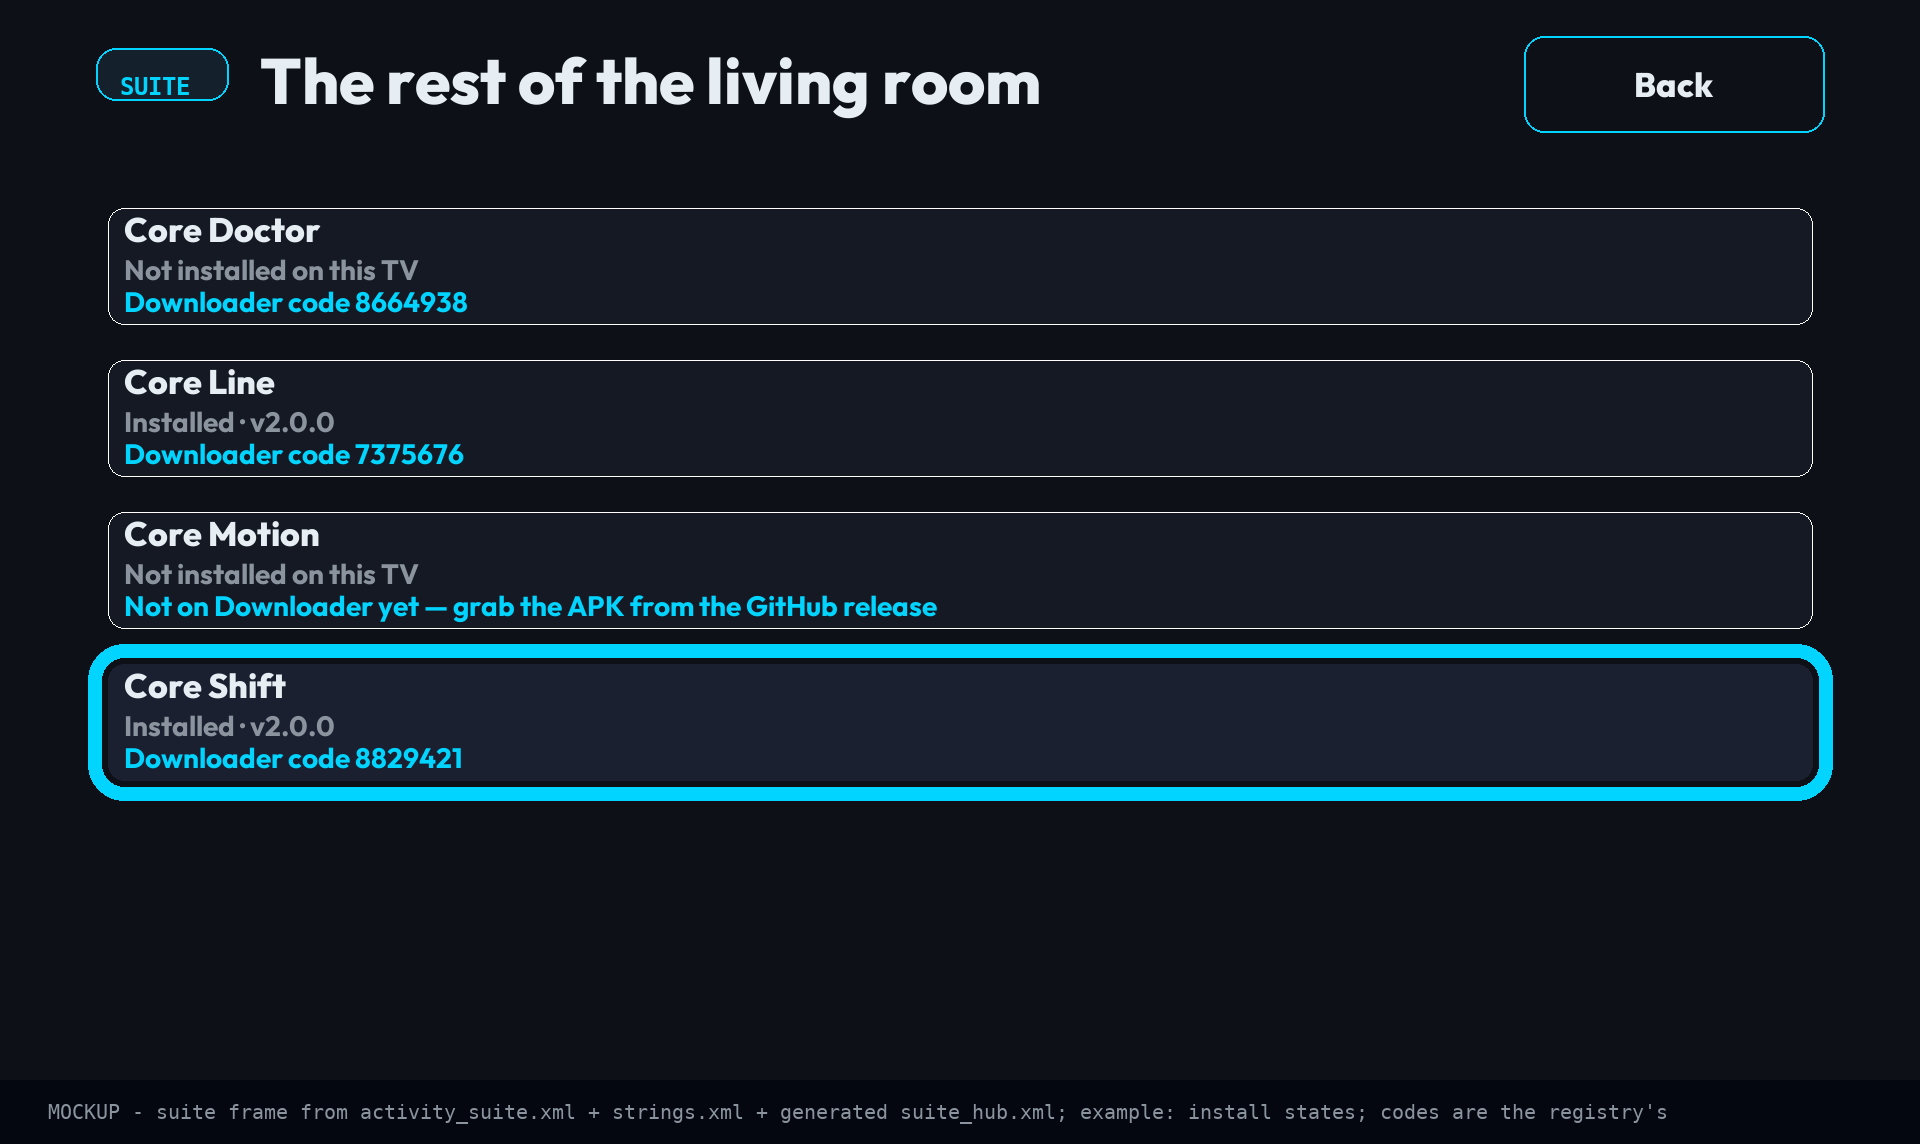
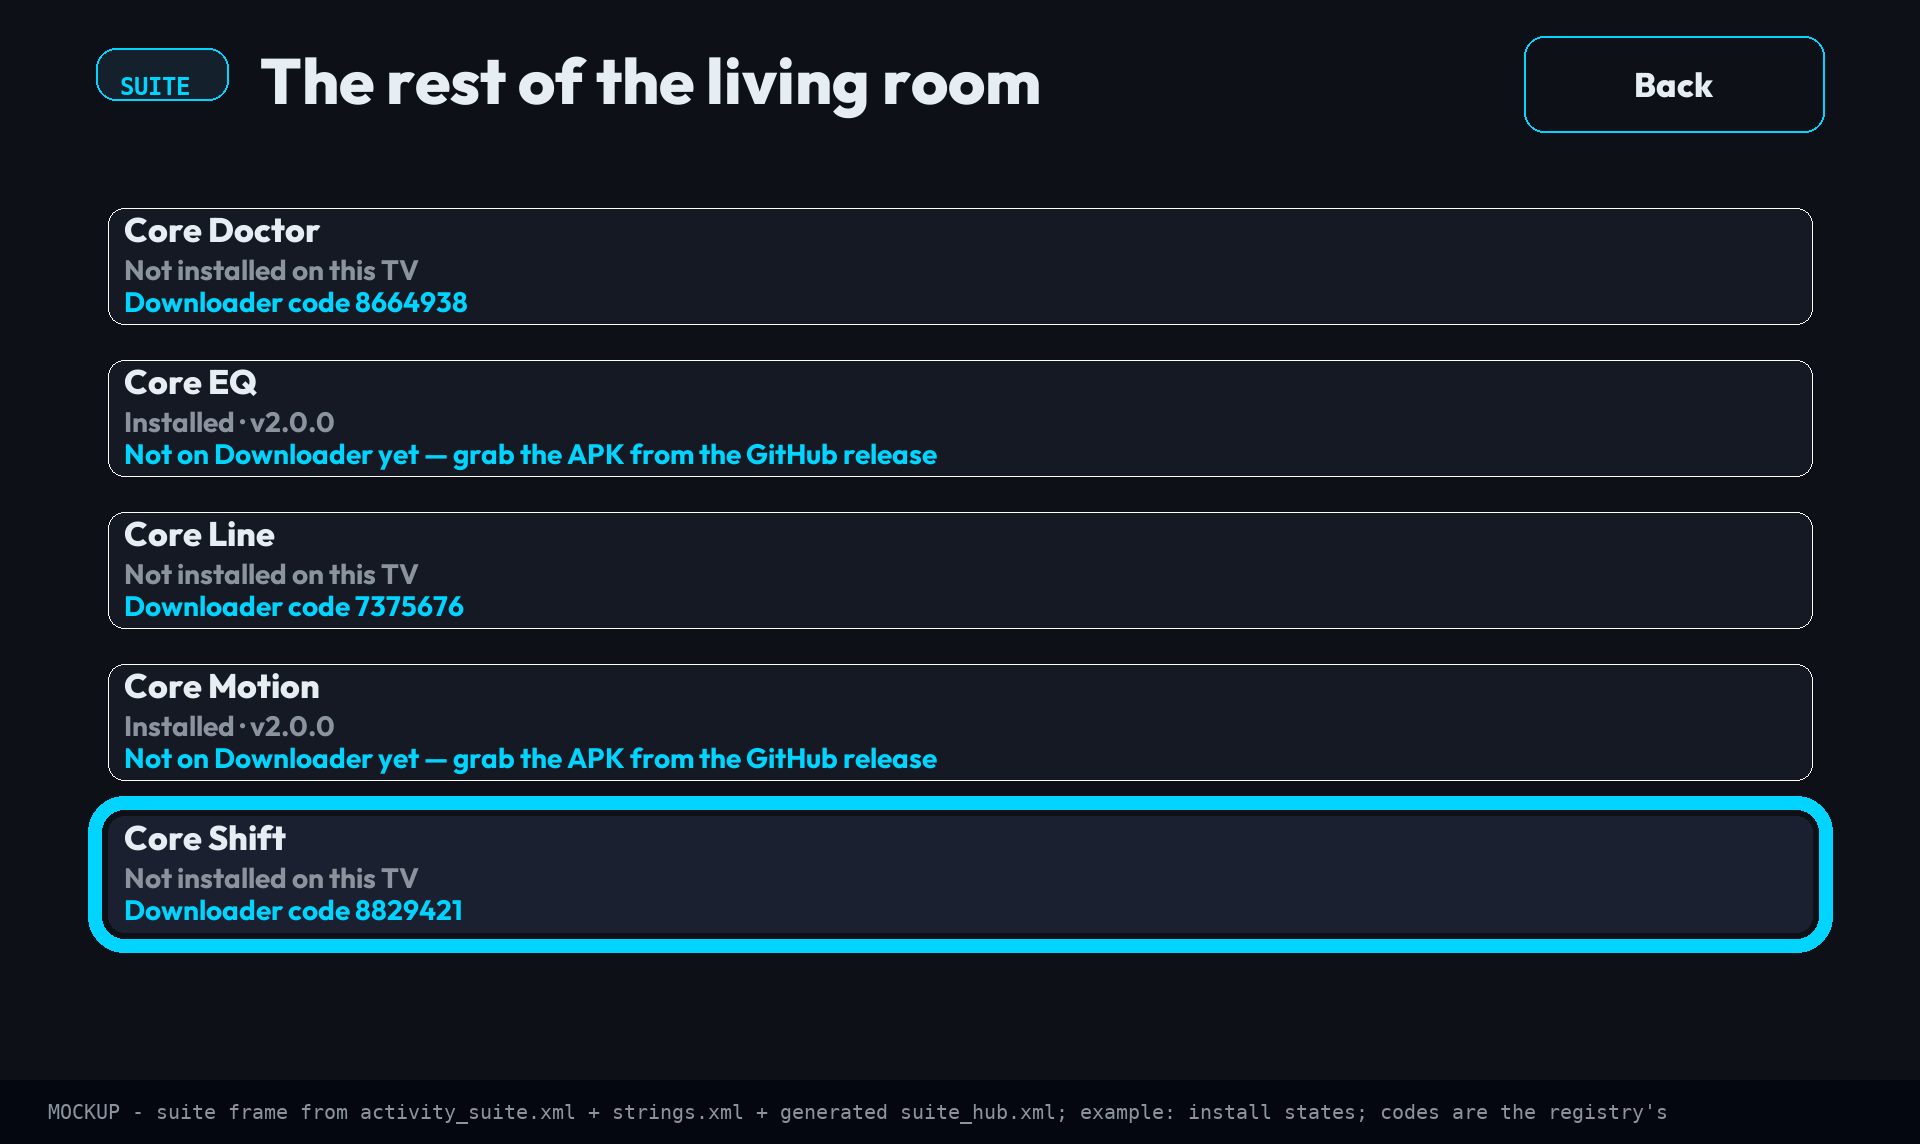
Core EQ: register in the suite, own changelog, safe release lanes, first test
- suite.json declares Core EQ (tv.corebuilds.eq, tag prefix coreeq-v,
  floating tag coreeq, Downloader [USER TO SUPPLY], metadata null). #183's
  check_release_tag_wiring rejected the coreeq-v* trigger on current main
  because no app declared the prefix. check_suite_truth's app order, the
  README stamp and a Core EQ section, AGENTS.md, PUBLISHING.md and the PR
  template follow; the icon pack's generated suite hub and its <queries>
  gain tv.corebuilds.eq, and the suite frame is regenerated.
- Core EQ's 11 changelog entries move from the root CHANGELOG.md, whose
  [Unreleased] prepare_release.py turns into the icon pack's in-app What's
  New, to coreeq/CHANGELOG.md. The icon pack's [Unreleased] now records only
  the hub change it actually ships.
- core-eq-apk.yml: PRs build a debug artifact and publish nothing; the
  coreeq-test prerelease updates only from pushes to main (no more publishing
  from PRs or arena/* branches); coreeq-v* tags on main build a signed,
  apksigner-verified coreeq-release.apk and publish the versioned and floating
  coreeq releases, mirroring Core Doctor. The release build type signs from
  the same KEYSTORE_* environment as the other apps.
- First unit test: CorrectionLimits (40 Hz-8 kHz, +6/-12 dB) with
  CorrectionLimitsTest, and tests/test_core_eq_parity.py holding those numbers
  equal to tools/core_eq_dsp.py, wired into suite-ci. CI now runs
  :app:testDebugUnitTest.
[…]

Changed region(s): [[0.0312, 0.5201, 0.9688, 0.8566], [0.0938, 0.3059, 0.5, 0.4283], [0.0938, 0.4589, 0.1875, 0.4895]]

diff --git a/coreeq/app/src/main/kotlin/tv/corebuilds/eq/CorrectionLimits.kt b/coreeq/app/src/main/kotlin/tv/corebuilds/eq/CorrectionLimits.kt
@@ -1,0 +1,33 @@
+package tv.corebuilds.eq
+
+/**
+ * The hard limits every correction Core EQ hands back must respect.
+ *
+ * These mirror `tools/core_eq_dsp.py` (F_MIN, F_MAX, MAX_BOOST_DB, MAX_CUT_DB),
+ * the reference the Kotlin measurement chain has to agree with; the numbers are
+ * held to it by `tests/test_core_eq_parity.py`, so they cannot drift apart.
+ *
+ * - A TV remote microphone cannot be trusted below 40 Hz or above 8 kHz
+ *   (16 kHz ADPCM caps it at an 8 kHz Nyquist), so nothing outside that band is
+ *   ever corrected: its gain is exactly zero, not merely small.
+ * - Boosts stop at +6 dB and cuts at -12 dB: a null is interference and cannot
+ *   be filled, and a large boost only buys distortion.
+ */
+object CorrectionLimits {
+    const val MIN_HZ = 40.0
+    const val MAX_HZ = 8000.0
+    const val MAX_BOOST_DB = 6.0
+    const val MAX_CUT_DB = 12.0
+
+    /** True when [hz] lies in the band Core EQ is allowed to correct. */
+    fun isCorrectable(hz: Double): Boolean = hz in MIN_HZ..MAX_HZ
+
+    /**
+     * The gain Core EQ may apply at [hz] for a requested [gainDb]: clamped to
+     * +[MAX_BOOST_DB] / -[MAX_CUT_DB], and exactly 0 outside the trusted band.
+     */
+    fun limit(hz: Double, gainDb: Double): Double {
+        if (!isCorrectable(hz) || gainDb.isNaN()) return 0.0
+        return gainDb.coerceIn(-MAX_CUT_DB, MAX_BOOST_DB)
+    }
+}

diff --git a/coreeq/app/src/test/kotlin/tv/corebuilds/eq/CorrectionLimitsTest.kt b/coreeq/app/src/test/kotlin/tv/corebuilds/eq/CorrectionLimitsTest.kt
@@ -1,0 +1,35 @@
+package tv.corebuilds.eq
+
+import org.junit.Assert.assertEquals
+import org.junit.Assert.assertFalse
+import org.junit.Assert.assertTrue
+import org.junit.Test
+
+class CorrectionLimitsTest {
+
+    @Test
+    fun bandEdgesAreInclusive() {
+        assertTrue(CorrectionLimits.isCorrectable(40.0))
+        assertTrue(CorrectionLimits.isCorrectable(8000.0))
+        assertFalse(CorrectionLimits.isCorrectable(39.9))
+        assertFalse(CorrectionLimits.isCorrectable(8000.1))
+    }
+
+    @Test
+    fun outsideTheBandTheGainIsExactlyZero() {
+        assertEquals(0.0, CorrectionLimits.limit(20.0, 5.0), 0.0)
+        assertEquals(0.0, CorrectionLimits.limit(12000.0, -9.0), 0.0)
+    }
+
+    @Test
+    fun boostsAndCutsAreClamped() {
+        assertEquals(6.0, CorrectionLimits.limit(100.0, 15.0), 0.0)
+        assertEquals(-12.0, CorrectionLimits.limit(100.0, -30.0), 0.0)
+        assertEquals(-3.5, CorrectionLimits.limit(1000.0, -3.5), 0.0)
+    }
+
+    @Test
+    fun notANumberNeverBecomesAGain() {
+        assertEquals(0.0, CorrectionLimits.limit(1000.0, Double.NaN), 0.0)
+    }
+}

diff --git a/tests/test_core_eq_parity.py b/tests/test_core_eq_parity.py
@@ -1,0 +1,37 @@
+#!/usr/bin/env python3
+"""Core EQ's Kotlin correction limits must equal the Python DSP reference.
+
+`tools/core_eq_dsp.py` is the reference the Android measurement chain has to
+agree with (docs/CORE_EQ_PLAN.md, M2). This holds the first shared numbers
+together today, without an Android SDK: the trusted band and the boost/cut caps
+in `coreeq/.../CorrectionLimits.kt` are read from source and compared.
+"""
+from __future__ import annotations
+
+import re
+import sys
+import unittest
+from pathlib import Path
+
+ROOT = Path(__file__).resolve().parents[1]
+sys.path.insert(0, str(ROOT / "tools"))
+
+import core_eq_dsp as dsp  # noqa: E402
+
+KOTLIN = ROOT / "coreeq/app/src/main/kotlin/tv/corebuilds/eq/CorrectionLimits.kt"
+PAIRS = {"MIN_HZ": "F_MIN", "MAX_HZ": "F_MAX",
+         "MAX_BOOST_DB": "MAX_BOOST_DB", "MAX_CUT_DB": "MAX_CUT_DB"}
+
+
+class CorrectionLimitParity(unittest.TestCase):
+    def test_kotlin_limits_match_the_reference(self):
+        src = KOTLIN.read_text(encoding="utf-8")
+        for kotlin_name, py_name in PAIRS.items():
+            with self.subTest(constant=kotlin_name):
+                m = re.search(rf"const val {kotlin_name} = ([0-9.]+)", src)
+                self.assertIsNotNone(m, f"{kotlin_name} missing from {KOTLIN.name}")
+                self.assertEqual(float(m.group(1)), float(getattr(dsp, py_name)))
+
+
+if __name__ == "__main__":
+    unittest.main()

diff --git a/tools/build_readme_badge.py b/tools/build_readme_badge.py
@@ -13,6 +13,7 @@ WHAT = {
     "shift": "Android TV screensaver + motion wallpaper browser",
     "motion": "Projectivy wallpaper-provider plugin for Core Motion loops",
     "doctor": "Local-only streaming and suite diagnostics (phone)",
+    "eq": "Room EQ from a test sweep and the TV remote mic (in development)",
 }
 ANCHOR = {
     "iconpack": "core-builds-icon-pack",
@@ -20,6 +21,7 @@ ANCHOR = {
     "shift": "core-shift",
     "motion": "core-motion",
     "doctor": "core-doctor",
+    "eq": "core-eq",
 }
 
 def block(suite: dict) -> str:
@@ -29,7 +31,7 @@ def block(suite: dict) -> str:
         "> |---|---:|---|---|---|",
     ]
     wallpapers = json.loads((ROOT / "Wallpapers/manifest.json").read_text())["count"]
-    for key in ["iconpack", "line", "shift", "motion", "doctor"]:
+    for key in ["iconpack", "line", "shift", "motion", "doctor", "eq"]:
         app = suite["apps"][key]
         releases = "../../releases"
         downloader = app["downloader"]

diff --git a/tools/check_suite_truth.py b/tools/check_suite_truth.py
@@ -44,7 +44,7 @@ def readme_stamp(suite: dict) -> str:
 def check_suite_json() -> None:
     suite = json.loads(read("suite.json"))
     apps = suite.get("apps", {})
-    expected = ["iconpack", "line", "shift", "motion", "doctor"]
+    expected = ["iconpack", "line", "shift", "motion", "doctor", "eq"]
     if list(apps.keys()) != expected:
         fail(f"suite.json apps must be in order {expected}")
     for key, app in apps.items():

diff --git a/coreeq/CHANGELOG.md b/coreeq/CHANGELOG.md
@@ -1,0 +1,26 @@
+# Core EQ changelog
+
+Core EQ (`tv.corebuilds.eq`) keeps its own changelog. The repository-root
+`CHANGELOG.md` belongs to the icon pack: `tools/prepare_release.py` turns its
+`[Unreleased]` section into the icon pack's in-app What's New, so Core EQ notes
+must never land there. Releases are `coreeq-v<version>` tags (see
+`PUBLISHING.md`).
+
+## [Unreleased] — 0.1.0 (M1)
+
+### Added
+
+- **Core EQ — a room equaliser built from pink noise and the TV remote mic.** `docs/research/core-eq-measurement-and-capability-2026-09.md` settles the two questions the idea lives or dies on: the controller microphone *is* supported on Android TV, but an uncalibrated remote capsule cannot be trusted below 40 Hz or above 8 kHz; and Android has no global equaliser API, so applying the correction is a capability to probe and state, not a promise to make.
+- **Core EQ plan and design frames.** `docs/CORE_EQ_PLAN.md` lays out the four screens, the capability ladder and the milestones, and `docs/core-eq-*.png` show them in the suite's own night chrome — Outfit and DejaVu Sans Mono, the `cb_*` tokens, the 3dp ring focus treatment, all read live from `app/src/main/res/values` rather than hand-drawn.
+- **`tools/core_eq_dsp.py` is the measurement chain, written before the Android.** Pink-noise and exponential-sine-sweep synthesis, Welch PSD to 1/3-octave bands anchored at 1 kHz, Flat / B&K / Harman / House targets, and a correction capped at +6/−12 dB with a 6 dB/octave slope limit across 40 Hz–8 kHz — plus the peaking-filter fit, the millibel collapse onto the device's own bands, and the three export formats with a preamp that rounds toward more negative.
+- **`tests/test_core_eq_dsp.py` pins that chain where it cannot drift.** Pink noise is proved to be −3 dB/octave and deterministic, `cut_only` is proved never to boost, the slope limiter is proved to cap a 15 dB null rather than echo it, fitting is proved deterministic, and the exported preamp is proved unable to under-compensate the largest boost. 41 tests.
+- **`tools/build_core_eq_mockups.py` renders the frames from their sources.** It reuses the icon pack's token loaders and font pins, feeds the graphs real DSP output rather than a hand-shaped curve, and refuses to draw any screen whose content passes the 540dp panel — the frame-level twin of `tests/test_tv_layout_fit.py`.
+- **`.github/workflows/suite-ci.yml` runs the new gates.** The DSP self-test, the pytest chain and the frame check are wired into the no-path-filter job, so `tests/test_ci_coverage.py` sees them on every push.
+- **Second research pass: precedents, the apply path, and the audio path.** `docs/research/core-eq-precedents-poweramp-and-audio-path-2026-09-27.md` finds a shipping mainstream precedent in Sonos Trueplay — and the reason it refuses Android microphones, which is the objection Core EQ has to answer — then settles three things the first pass missed: Poweramp Equalizer is the apply target rather than a rival and already imports the exact AutoEQ `.txt` Core EQ exports; the audio output path decides whether an app-level equaliser can reach the sound at all, so it must be probed before anyone measures a room; and every target curve so far has been a music target, when the dominant TV problem is dialogue intelligibility.
+- **Third research pass: the correction science.** `docs/research/core-eq-correction-science-2026-09-27.md` settles what a measured response is *allowed* to be corrected toward. Correction has a computable ceiling — the room stops being a set of discrete resonances above its Schroeder frequency, `2000·sqrt(RT60/V)`, and the industry inverts only below about 300–500 Hz. A null is destructive interference and cannot be filled at any price, so the corrector must cut peaks and leave cancellations alone, while cutting a modal peak genuinely does kill its ringing because low-frequency room modes are minimum phase. It also audits the reference DSP: its `harman` target is speaker-family rather than headphone-family, which is lucky, because the headphone curve's 3 kHz ear-gain peak would double-count pinna gain if baked into a speaker correction — but the name overclaims and the bass sits at half the published Olive 2013 preference. And the swept-sine stimulus the tool already generates should be what it measures with: it buys 15–20 dB of dynamic range over noise, and it is the only path to the RT60 and group-delay numbers the ceiling and the minimum-phase gate need.
+- **Built what the third research pass found.** The DSP reference is now a two-regime corrector: full inversion below the room's transition frequency (`min(2·f_s, 400 Hz)` from `2000·√(RT60/V)`, 300 Hz when the room is unknown), and shaping-only within ±3 dB above it — because above that line a microphone at one point is measuring reflections as much as the speaker. Dips deeper than 6 dB below the trend are detected as cancellations and never boosted into, and a minimum-phase gate built on the sweep's excess group delay zeroes any region inverting would only distort. The measurement stimulus moved to the exponential sine sweep the tool already generated and did not use: it buys 15–20 dB of dynamic range and is the only path to the RT60 and group-delay numbers the ceiling and the gate need. Targets are named for what they are — `room` replaces `harman`, `olive` ships the published Olive 2013 shelves as a preset, `dialogue` adds SII-weighted presence that stops before sibilance — and the correction floor now follows the loudspeaker's measured roll-off instead of a fixed 40 Hz. Exports carry their own band limit, the transition, the untouched nulls and the Poweramp "Bands Overlap = Cascade" instruction. 63 tests pin it.
+- **Test pipeline and Core EQ Android TV app scaffolding (M1).** `tools/core_eq_dsp.py` now includes `read_wav` (16/24/32-bit), automatic resampling, and `--process` to deconvolve recorded sine sweeps directly into AutoEQ/Poweramp Equalizer presets — giving an immediate acoustic test loop before on-device audio wiring. The Farina inverse sweep filter was also corrected: the +3 dB/octave amplitude envelope is now applied before time-reversal, eliminating an inverted-slope deconvolution error and yielding flat-to-0.2 dB loopback deconvolution. Milestone M1 scaffolds the standalone `coreeq/` Android Gradle root (`tv.corebuilds.eq`), implementing `TvActivity` 1080p density normalization, Leanback launcher, Home/Measure/Profiles/Capability activities, UI tokens matching the icon pack palette, and `.github/workflows/core-eq-apk.yml` to assemble debug APK artifacts on PRs. 66 DSP tests; 472 suite tests passing.
+- **Fourth research pass: remote hardware reality, equal loudness, and spatial averaging.** `docs/research/core-eq-remote-hardware-loudness-and-spatial-averaging-2026-09-28.md` resolves the open hardware and acoustic questions from pass three: TV remotes stream 16 kHz ADPCM over Bluetooth LE (ATVV / Voice over HOGP), proving the 8 kHz correction limit is a physical Nyquist constraint; Android CDD §5.4.2 explicitly mandates that `AudioSource.VOICE_RECOGNITION` disables both AGC and noise reduction while enforcing flat response and 30 dB linearity; spatial seat averaging must use power (energy) averaging preceded by 300–3000 Hz broadband alignment, because complex vector averaging creates artificial comb nulls; and ISO 226:2003 equal-loudness contours explain the evening TV volume trap — taming room modes relieves upward masking on consonants so viewers hear dialogue without cranking the master volume.
+- **Core EQ joins the suite registry.** `suite.json` declares it (`tv.corebuilds.eq`, tag prefix `coreeq-v`, floating tag `coreeq`, Downloader `[USER TO SUPPLY]`), so `check_suite_truth.py` accepts its release trigger, and the README, `AGENTS.md`, `PUBLISHING.md`, the PR template and the icon pack's suite hub list it. Its notes moved here from the icon pack's changelog, whose `[Unreleased]` becomes that app's in-app What's New.
+- **Release and test lanes.** `coreeq-v*` tags on main now build a signed, verified `coreeq-release.apk` and publish the versioned and floating `coreeq` releases; the `coreeq-test` prerelease updates only from pushes to `main`, so unreviewed PR and agent-branch code is never published. PRs build a debug artifact only.
+- **First unit test.** `CorrectionLimits` holds the 40 Hz–8 kHz band and the +6/−12 dB caps; `CorrectionLimitsTest` pins them, and `tests/test_core_eq_parity.py` holds them equal to `tools/core_eq_dsp.py`.

diff --git a/README.md b/README.md
@@ -22,6 +22,7 @@
 > | **[Core Shift](#-core-shift)** | `v2.3.5` | Android TV screensaver + motion wallpaper browser | `8829421` | [`shift-v*` / `shift`](../../releases) |
 > | **[Core Motion](#-core-motion)** | `v1.0.0` | Projectivy wallpaper-provider plugin for Core Motion loops | `[USER TO SUPPLY]` | [`motion-v*` / `motion`](../../releases) |
 > | **[Core Doctor](#-core-doctor)** | `v0.1.0` | Local-only streaming and suite diagnostics (phone) | `8664938` | [`doctor-v*` / `doctor`](../../releases) |
+> | **[Core EQ](#-core-eq)** | `v0.1.0` | Room EQ from a test sweep and the TV remote mic (in development) | `[USER TO SUPPLY]` | [`coreeq-v*` / `coreeq`](../../releases) |
 >
 > Each app has its own CI workflow and release tag. Do not merge Gradle roots, split the repo, or repoint floating Downloader tags.
 <!-- suite-stamp:end -->
@@ -218,6 +219,18 @@ Six checks on your setup's health — DNS, VPN detection, addon manifest + strea
 **Install:** Downloader code **`8664938`**, or [**Releases**](../../releases) under `doctor-v*` tags.
 
 Build: `cd doctor && ./gradlew :app:assembleDebug` · [`doctor/SPEC.md`](doctor/SPEC.md)
+
+---
+
+## 🔷 Core EQ
+
+**Measure the room you sit in, with the remote you already hold.** `v0.1.0` · in development
+
+Plays a test sweep through the TV, records it through the remote's microphone, and hands back an equaliser setting for this room — corrected only between 40 Hz and 8 kHz, the band a remote capsule can be trusted in. Android TV has no global equaliser, so the app probes what it can apply on each device and says so. M1 is the app shell; measurement lands in later milestones ([plan](docs/CORE_EQ_PLAN.md)). Permissions: RECORD_AUDIO, MODIFY_AUDIO_SETTINGS.
+
+**Install:** test builds on the [`coreeq-test`](../../releases/tag/coreeq-test) prerelease; releases under `coreeq-v*` tags. Downloader code: not yet generated.
+
+Build: `cd coreeq && ./gradlew :app:assembleDebug` · [`coreeq/CHANGELOG.md`](coreeq/CHANGELOG.md)
 
 ---
 

diff --git a/AGENTS.md b/AGENTS.md
@@ -11,6 +11,7 @@
 | Core Shift | `shift/` | `dev.corebuilds.shift` | `2.3.5` | `8829421` / `shift` |
 | Core Motion | `motion-plugin/` | `tv.corebuilds.motion` | `1.0.0` | `[USER TO SUPPLY]` / `motion` |
 | Core Doctor | `doctor/` | `dev.corebuilds.doctor` | `0.1.0` | `8664938` / `doctor` |
+| Core EQ | `coreeq/` | `tv.corebuilds.eq` | `0.1.0` | `[USER TO SUPPLY]` / `coreeq` |
 
 (Retired 2026-09-24: Core Builds Pixel Neon and Core Builds Pop. The suite
 keeps one icon pack. Their shipped tags stay as history; do not resurrect
@@ -155,5 +156,6 @@ prefills `input`/`textarea` fields only, and the tool refuses to promise more.
 - Core Shift: `python tools/validate_motion_feed.py` plus Android lint/build in CI.
 - Core Motion: `python tools/verify_motion_plugin.py` plus Android lint/build in CI.
 - Core Doctor: `cd doctor && ./gradlew :app:testDebugUnitTest` where Android SDK exists.
+- Core EQ: `python tools/core_eq_dsp.py --selftest`, `python tests/test_core_eq_dsp.py`, and `cd coreeq && ./gradlew :app:testDebugUnitTest` where Android SDK exists. Its changelog is `coreeq/CHANGELOG.md`, never the icon pack's: `prepare_release.py` turns the root `[Unreleased]` into the icon pack's in-app What's New.
 
 If local SDK/device access is missing, say so. A named unverified step is better than a confident guess.

diff --git a/PUBLISHING.md b/PUBLISHING.md
@@ -11,6 +11,8 @@ This repo ships five products from independent Gradle roots. Keep versioned tags
 | Core Shift | `shift-v<version>` | `shift` | `coreshift-release.apk` | `8829421` |
 | Core Motion | `motion-v<version>` | `motion` | `coremotion-release.apk` | `[USER TO SUPPLY]` |
 | Core Doctor | `doctor-v<version>` | `doctor` | `coredoctor-release.apk` | `8664938` |
+| Core EQ | `coreeq-v<version>` | `coreeq` | `coreeq-release.apk` | `[USER TO SUPPLY]` |
+| Core EQ (test channel) | none — pushes to `main` only | `coreeq-test` | `coreeq-debug.apk` | none |
 | Icon Pack (test channel) | none — `workflow_dispatch` only | `iconpack-test` | `iconpack-test.apk` | `9255317` |
 
 Do not create `line-v*` tags. Core Line is `coreline-v*`.

diff --git a/CHANGELOG.md b/CHANGELOG.md
@@ -6,6 +6,12 @@ All notable changes to the Core Builds Icon Pack. Format follows
 
 ## [Unreleased]
 
+### Added
+
+- **Core EQ in the suite hub.** The hub lists Core EQ (`tv.corebuilds.eq`)
+  beside the other companions and can see whether it is installed. It has no
+  Downloader code yet, so the hub shows none, the same as Core Motion.
+
 ## [1.9.7] — 2026-09-27
 
 ### Added

diff --git a/.github/pull_request_template.md b/.github/pull_request_template.md
@@ -5,6 +5,7 @@
 - [ ] Core Shift
 - [ ] Core Doctor
 - [ ] Core Motion
+- [ ] Core EQ
 - [ ] Docs / CI / suite
 
 ## Why this exists
@@ -45,6 +46,9 @@ Core Doctor:
 
 Core Motion:
 - [ ] `python tools/verify_motion_plugin.py`
+
+Core EQ:
+- [ ] `python tests/test_core_eq_dsp.py` and `cd coreeq && ./gradlew test`
 
 ## Notes / unverified
 
